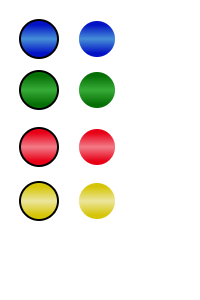
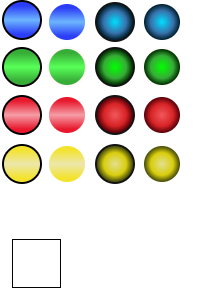
play again / exit working

diff --git a/client.py b/client.py
@@ -5,6 +5,7 @@ from images import Images
 from network import Network
 import pygame
 from reserved_type import ReservedType
+import sys
 import time
 
 
@@ -30,6 +31,7 @@ class Client:
         """
         # Start screen
         self.char_select_group.add(Images(223, -50, 'images/start_screen/sorry_title.png'))
+        self.char_select_group.add(Images(25, 90, 'images/start_screen/select_a_color.png'))
         self.char_select_group.add(Images(285, 285, 'images/start_screen/pawn2.png'))
 
         # Turn specific
@@ -373,11 +375,14 @@ class Client:
 
             event = pygame.event.get()
             for ev in event:
-                if ev.type == pygame.MOUSEBUTTONDOWN:
+                if ev.type == pygame.MOUSEBUTTONDOWN and not card_drawn:
                     pos = pygame.mouse.get_pos()
                     if draw.rect.collidepoint(pos):
                         self.get_server_response('draw_card')
                         card_drawn = True
+                if ev.type == pygame.KEYDOWN and ev.key == pygame.K_SPACE and not card_drawn:
+                    self.get_server_response('draw_card')
+                    card_drawn = True
 
             pygame.display.update()
             self.clock.tick(60)
@@ -503,6 +508,7 @@ class Client:
                 x, y = p.x, p.y
                 click_group.add(Images(x+4, y+4, 'images/titles/click_xs_2.png'))
 
+        click_group.draw(self.window)
         click_group.draw(self.window)
         pygame.display.update()
 
@@ -1075,8 +1081,60 @@ class Client:
         else:
             title_group.add(Images(10, 100, 'images/end_screen/yellow_wins.png'))
 
+        # Play again and Exit buttons
+        title_group.add(Images(235, 500, 'images/titles/play_again.png'))
+        title_group.add(Images(235, 600, 'images/titles/exit_btn.png'))
+
+        num_ready = self.get_server_response('new_game_votes')
+        self.draw_text(f'{num_ready[0]} / {num_ready[1]} players', 18, constants.BLACK, 350, 570)
+
         title_group.draw(self.window)
         pygame.display.update()
+
+    def handle_win(self):
+        again = False
+
+        # Check for a button press
+        while not again and self.get_server_response('check_won'):
+            self.win_screen()
+            self.clock.tick(60)
+
+            # Check if they click play again or exit
+            event = pygame.event.get()
+            for ev in event:
+                if ev.type == pygame.MOUSEBUTTONDOWN:
+                    x, y = pygame.mouse.get_pos()
+
+                    if 235 <= x <= 535 and 500 <= y <= 560:
+                        # Play again
+                        print('Readied up')
+                        self.get_server_response('new_game')
+                        again = True
+
+                    if 235 <= x <= 535 and 600 <= y <= 660:
+                        # Exit
+                        self.get_server_response('quit')
+                        sys.exit()
+
+        # Wait for everyone to be ready again
+        ready = self.get_server_response('start_new_game')
+        while not ready:
+            self.win_screen()
+
+            # Check if they click play again or exit
+            event = pygame.event.get()
+            for ev in event:
+                if ev.type == pygame.MOUSEBUTTONDOWN:
+                    x, y = pygame.mouse.get_pos()
+                    if 235 <= x <= 535 and 600 <= y <= 660:
+                        # Exit
+                        self.get_server_response('quit')
+                        sys.exit()
+
+            pygame.display.update()
+            self.clock.tick(60)
+            ready = self.get_server_response('start_new_game')
+
 
 
 """
@@ -1084,11 +1142,10 @@ TODO:
 - Something is still wonky with the 11 swap places, some special cases send a piece home (has to do with slides?)
 - Add in a way to select a different piece
 - Draw card to another button, space?
-- Prompt to select a color on the start menu
 - Music? (also would like to do a volume slider with this)
 - Make it clearer when your piece has been swapped / sent back home
 - Make it easier to see pieces on the board
-- Play again / Exit buttons on the end screen
 - Home overhaul, make it like the start
 - Animations? Card flip / slide
+- Turns go clockwise
 """

diff --git a/server.py b/server.py
@@ -19,6 +19,23 @@ print("Waiting for a connection, Server Started")
 
 games = {}
 ready = {}
+new_game_flag = {}
+vote_new_game = {}
+
+
+def create_new_game(game_id):
+    print(f'Creating new game for game {game_id}')
+    new_game = Game()
+
+    for player in games[game_id].players:
+        new_game.add_player(player.get_color())
+
+    games[game_id] = new_game
+
+    # Undo new game flags
+    new_game_flag[game_id] = False
+    for key in vote_new_game[game_id].keys():
+        vote_new_game[game_id][key] = False
 
 
 def threaded_client(connect, p_id, game_id):
@@ -31,6 +48,7 @@ def threaded_client(connect, p_id, game_id):
     connect.send(str.encode(str(p_id)))
     color = None
     reply = ""
+    vote_new_game[game_id][p_id] = False
 
     while True:
         try:
@@ -63,6 +81,10 @@ def threaded_client(connect, p_id, game_id):
                         if reply:
                             ready[game_id][p_id] = True
                             color = choice
+
+                    # For restarting a game, sets player as ready
+                    elif data == 'ready':
+                        ready[game_id][p_id] = True
 
                     # Check if all players are ready to start
                     elif data == 'start':
@@ -115,11 +137,37 @@ def threaded_client(connect, p_id, game_id):
                     elif data == 'winner':
                         reply = game.winner
 
+                    elif data == 'new_game':
+                        vote_new_game[game_id][p_id] = True
+
+                    elif data == 'new_game_votes':
+                        length = 0
+                        votes = 0
+                        for key in vote_new_game[game_id].keys():
+                            if vote_new_game[game_id][key]:
+                                votes += 1
+                            length += 1
+
+                        reply = [votes, length]
+
+                    elif data == 'start_new_game':
+                        # Check that all votes have been made for a new game, and then create the new game
+                        flag = True
+                        for key in vote_new_game[game_id].keys():
+                            if not vote_new_game[game_id][key]:
+                                flag = False
+
+                        if flag:
+                            create_new_game(game_id)
+
                     # If a player quits, this will remove them from the game
                     elif data == 'quit':
                         game.remove_player(color)
+                        ready[game_id].pop()
+                        del vote_new_game[game_id][p_id]
 
                     connect.sendall(pickle.dumps(reply))
+
             else:
                 break
         except Exception as er:
@@ -152,6 +200,8 @@ while True:
         print("Creating a new game...")
         games[g_id] = Game()
         ready[g_id] = []
+        new_game_flag[g_id] = False
+        vote_new_game[g_id] = {}
         id_count = 0
 
     ready[g_id].append(False)

diff --git a/main.py b/main.py
@@ -29,7 +29,7 @@ def main():
             client.draw_screen()
             client.check_our_turn()
         else:
-            client.win_screen()
+            client.handle_win()
 
         # Check for a quit
         for event in pygame.event.get():
